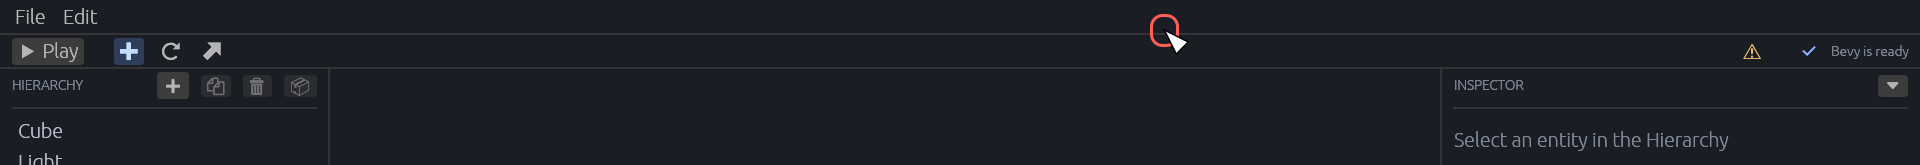
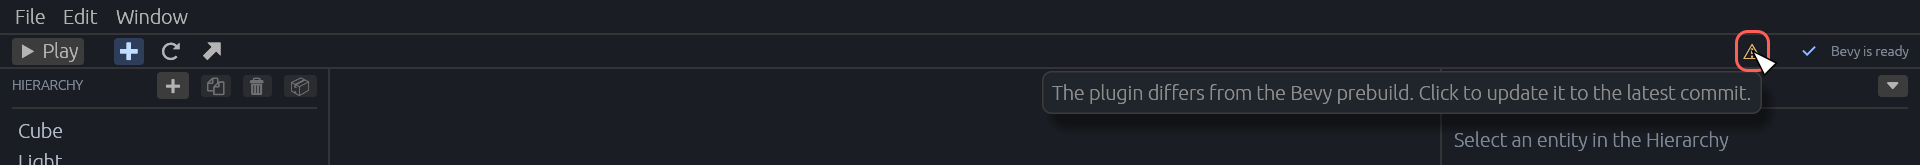
Open Bevy's asset list from the editor, the way Unity opens its store
Window > Bevy Assets (Ctrl+9, Unity's Asset Store key) in the editor
and a Bevy Assets link at the foot of the hub open
https://bevy.org/assets/ in the default browser. Explorer hands the
page over from outside the editor's job object, which now allows
breakaway, so a browser it starts is not killed when the editor exits;
revealing a project folder goes the same way. Under `cargo run`, whose
job allows no breakaway, it falls back to opening from inside the job.

The README screenshots are retaken with the new menu. Since egui 0.36,
kittest reports node rects in points, so the screenshot test no longer
divides them by the pixel ratio; the previous retake had put the ring
and the hover off the plugin icon, and lost its tooltip.

diff --git a/crates/besfa_editor/src/editor.rs b/crates/besfa_editor/src/editor.rs
@@ -686,6 +686,10 @@ impl Editor {
             self.save_after_ui = true;
             return;
         }
+        // Unity's key for its Asset Store.
+        if pressed(Modifiers::COMMAND, Key::Num9) {
+            return project::open_url(project::BEVY_ASSETS);
+        }
         if ctx.text_edit_focused() {
             return;
         }
@@ -739,6 +743,12 @@ impl Editor {
                         .clicked()
                     {
                         self.replay(false);
+                    }
+                });
+                ui.menu_button("Window", |ui| {
+                    let assets = Button::new("Bevy Assets").shortcut_text("Ctrl+9");
+                    if ui.add(assets).on_hover_text(project::BEVY_ASSETS).clicked() {
+                        project::open_url(project::BEVY_ASSETS);
                     }
                 });
             });
@@ -1247,14 +1257,9 @@ mod tests {
     /// Where the toolbar's plugin icon showing `icon` is, in points.
     fn plugin_icon(harness: &egui_kittest::Harness<Screen>, icon: &str) -> egui::Rect {
         use egui_kittest::kittest::Queryable;
-        // Accessibility bounds are in pixels.
-        let rect = harness
+        harness
             .get_by_role_and_label(egui::accesskit::Role::Button, icon)
-            .rect();
-        egui::Rect::from_min_max(
-            (rect.min.to_vec2() / PIXELS_PER_POINT).to_pos2(),
-            (rect.max.to_vec2() / PIXELS_PER_POINT).to_pos2(),
-        )
+            .rect()
     }
 
     /// Writes the window, or its top `height` points, to docs/images.

diff --git a/crates/besfa_editor/src/project.rs b/crates/besfa_editor/src/project.rs
@@ -149,9 +149,38 @@ pub fn move_to_recycle_bin(directory: &str) -> bool {
 /// Opens `directory` in Explorer.
 pub fn reveal(directory: &str) {
     // Explorer needs backslashes; with '/' it silently opens Documents.
-    let _ = std::process::Command::new("explorer")
-        .arg(directory.replace('/', "\\"))
-        .spawn();
+    shell_open(&directory.replace('/', "\\"));
+}
+
+/// The community's plugins, assets, templates and tools for Bevy, which is
+/// what Bevy has for Unity's Asset Store.
+pub const BEVY_ASSETS: &str = "https://bevy.org/assets/";
+
+/// Opens `url` in the default browser.
+pub fn open_url(url: &str) {
+    shell_open(url);
+}
+
+/// Hands `target` to Explorer, outside the editor's job, so a window or a
+/// browser it starts stays open when the editor exits. Launched from a job
+/// that allows no breakaway, as under `cargo run`, it stays in the job.
+fn shell_open(target: &str) {
+    let mut command = std::process::Command::new("explorer");
+    command.arg(target);
+    #[cfg(windows)]
+    {
+        use std::os::windows::process::CommandExt;
+        const CREATE_BREAKAWAY_FROM_JOB: u32 = 0x0100_0000;
+        if command
+            .creation_flags(CREATE_BREAKAWAY_FROM_JOB)
+            .spawn()
+            .is_ok()
+        {
+            return;
+        }
+        command.creation_flags(0);
+    }
+    let _ = command.spawn();
 }
 
 /// Asks for a folder with the system dialog; None if cancelled.

diff --git a/crates/besfa_editor/src/main.rs b/crates/besfa_editor/src/main.rs
@@ -127,9 +127,8 @@ fn style(ctx: &egui::Context) {
 /// Builds and games the editor starts inherit this job, and the kernel kills
 /// them when the job's last handle closes: when the editor exits, however it
 /// exits. Without it a crashed editor leaves cargo and a window-less game
-/// running. The handle is left open on purpose.
-// ponytail: everything the editor launches dies with it; allow breakaway
-// (JOB_OBJECT_LIMIT_BREAKAWAY_OK) once something must outlive the editor.
+/// running. The handle is left open on purpose. What must outlive the
+/// editor, like a browser it opened, breaks away from the job.
 #[cfg(windows)]
 fn kill_children_with_editor() {
     use windows::Win32::System::{JobObjects::*, Threading::GetCurrentProcess};
@@ -139,7 +138,8 @@ fn kill_children_with_editor() {
             return;
         };
         let mut limits = JOBOBJECT_EXTENDED_LIMIT_INFORMATION::default();
-        limits.BasicLimitInformation.LimitFlags = JOB_OBJECT_LIMIT_KILL_ON_JOB_CLOSE;
+        limits.BasicLimitInformation.LimitFlags =
+            JOB_OBJECT_LIMIT_KILL_ON_JOB_CLOSE | JOB_OBJECT_LIMIT_BREAKAWAY_OK;
         let _ = SetInformationJobObject(
             job,
             JobObjectExtendedLimitInformation,

diff --git a/crates/besfa_editor/src/hub.rs b/crates/besfa_editor/src/hub.rs
@@ -80,6 +80,14 @@ impl Hub {
             ui.horizontal(|ui| {
                 ui.label(RichText::new("Besfa Editor").color(MUTED));
                 ui.add_space(24.0);
+                if ui
+                    .link("Bevy Assets")
+                    .on_hover_text(project::BEVY_ASSETS)
+                    .clicked()
+                {
+                    project::open_url(project::BEVY_ASSETS);
+                }
+                ui.add_space(24.0);
                 ui.with_layout(egui::Layout::right_to_left(egui::Align::Center), |ui| {
                     ui.label(RichText::new("0.1.0-dev").small().color(MUTED));
                     ui.add_space(24.0);
